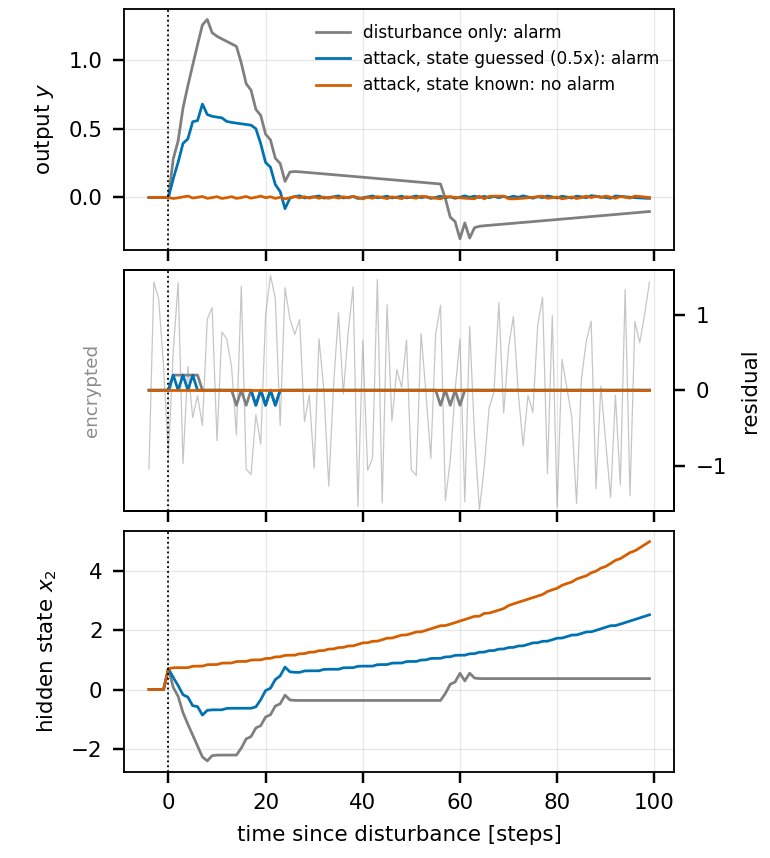
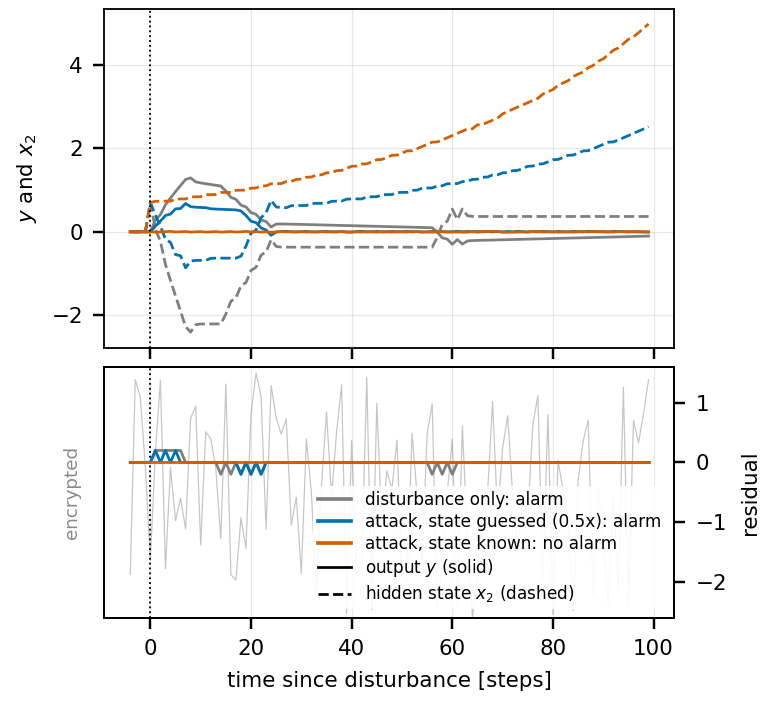
Paper figure: output and hidden state in one panel, legend on the residual

diff --git a/four_tank/stealth_fig_paper.py b/four_tank/stealth_fig_paper.py
@@ -1,8 +1,10 @@
-"""Single-column figure for the paper (unstable zero): output, residual, hidden state; reads det_results/stealth_example.npz."""
+"""Single-column figure for the paper (unstable zero): output and hidden state in one panel, residual below;
+reads det_results/stealth_example.npz."""
 import numpy as np
 import matplotlib
 matplotlib.use("Agg")
 import matplotlib.pyplot as plt
+from matplotlib.lines import Line2D
 
 D = np.load("det_results/stealth_example.npz")
 T, K0 = 192, 196
@@ -11,20 +13,23 @@ t = np.arange(lo, hi) - K0
 cases = (("none", "#7f7f7f", "disturbance only"), ("mismatched", "#0072b2", "attack, state guessed (0.5x)"),
          ("matched", "#d55e00", "attack, state known"))
 plt.rcParams.update({"font.size": 7, "axes.linewidth": 0.6})
-fig, ax = plt.subplots(3, 1, figsize=(3.5, 3.9), sharex=True)
+fig, ax = plt.subplots(2, 1, figsize=(3.5, 3.2), sharex=True, gridspec_kw=dict(height_ratios=[1.35, 1]))
+handles = []
 for name, col, lab in cases:
-    g = lambda key: D[f"unstable_{name}_{key}"][lo:hi]
+    ax[0].plot(t, D[f"unstable_{name}_y"][lo:hi], color=col, lw=0.9)
+    ax[0].plot(t, D[f"unstable_{name}_x2"][lo:hi], color=col, lw=0.9, ls="--")
     flag = bool(D[f"unstable_{name}_flag"])
-    ax[0].plot(t, g("y"), color=col, lw=0.9, label=f"{lab}: {'alarm' if flag else 'no alarm'}")
-    ax[2].plot(t, g("x2"), color=col, lw=0.9)
+    handles.append(Line2D([0], [0], color=col, lw=1.2, label=f"{lab}: {'alarm' if flag else 'no alarm'}"))
+handles += [Line2D([0], [0], color="k", lw=0.9, label="output $y$ (solid)"), Line2D([0], [0], color="k", lw=0.9, ls="--", label="hidden state $x_2$ (dashed)")]
+ax[0].set_ylabel("$y$ and $x_2$")
 ax[1].plot(t, D["unstable_matched_enc"][lo:hi], color="#8c8c8c", lw=0.4, alpha=0.5)
 q = float(D["unstable_matched_q"]); ax[1].set_ylim(-q / 2, q / 2); ax[1].set_yticks([]); ax[1].set_ylabel("encrypted", color="#8c8c8c", fontsize=6)
 pax = ax[1].twinx(); pax.set_zorder(ax[1].get_zorder() + 1); pax.patch.set_visible(False)
 for name, col, lab in cases:
     pax.plot(t, D[f"unstable_{name}_rho"][lo:hi], color=col, lw=0.9)
-pax.set_ylim(-1.6, 1.6); pax.set_ylabel("residual")
-ax[0].set_ylabel("output $y$"); ax[2].set_ylabel("hidden state $x_2$"); ax[2].set_xlabel("time since disturbance [steps]")
-ax[0].legend(fontsize=5.5, loc="upper right", frameon=False)
+pax.set_ylim(-2.6, 1.6); pax.set_ylabel("residual")
+ax[1].set_xlabel("time since disturbance [steps]")
+pax.legend(handles=handles, fontsize=5.5, loc="lower right", frameon=True, framealpha=0.9, edgecolor="none", borderpad=0.3, labelspacing=0.25)
 for a in ax:
     a.grid(alpha=0.3, lw=0.4); a.axvline(0, color="k", ls=":", lw=0.6)
 fig.tight_layout(pad=0.4); fig.savefig("stealth_fig_paper.pdf"); fig.savefig("stealth_fig_paper.png", dpi=220)
